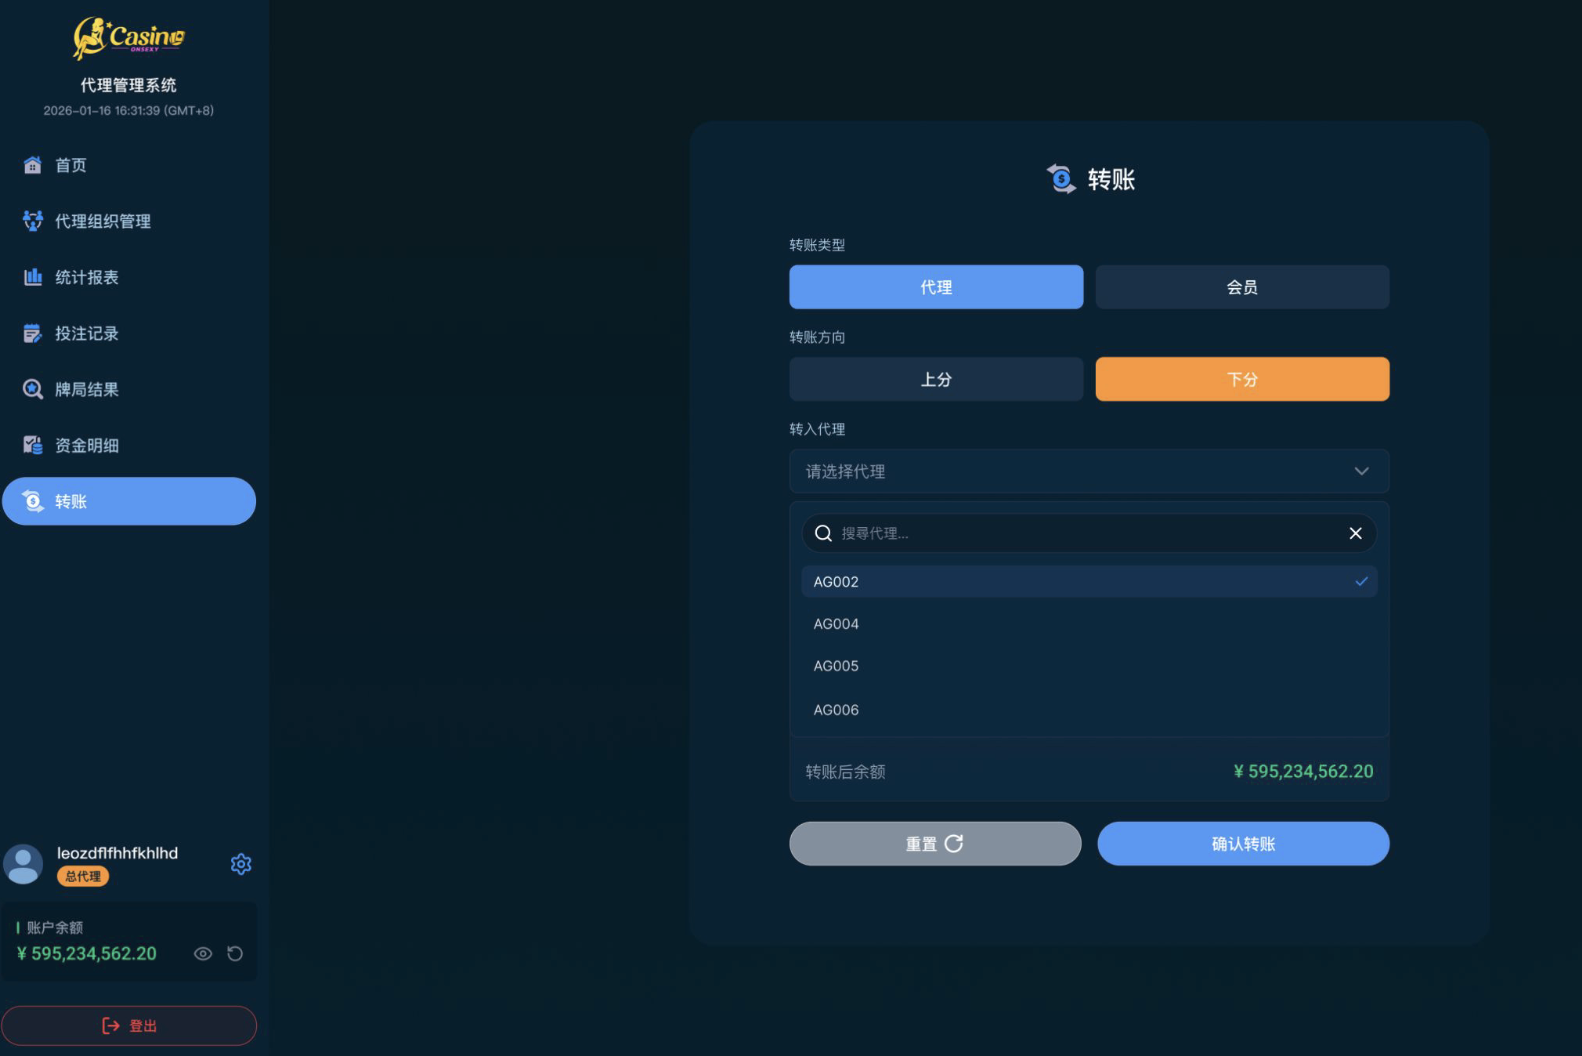
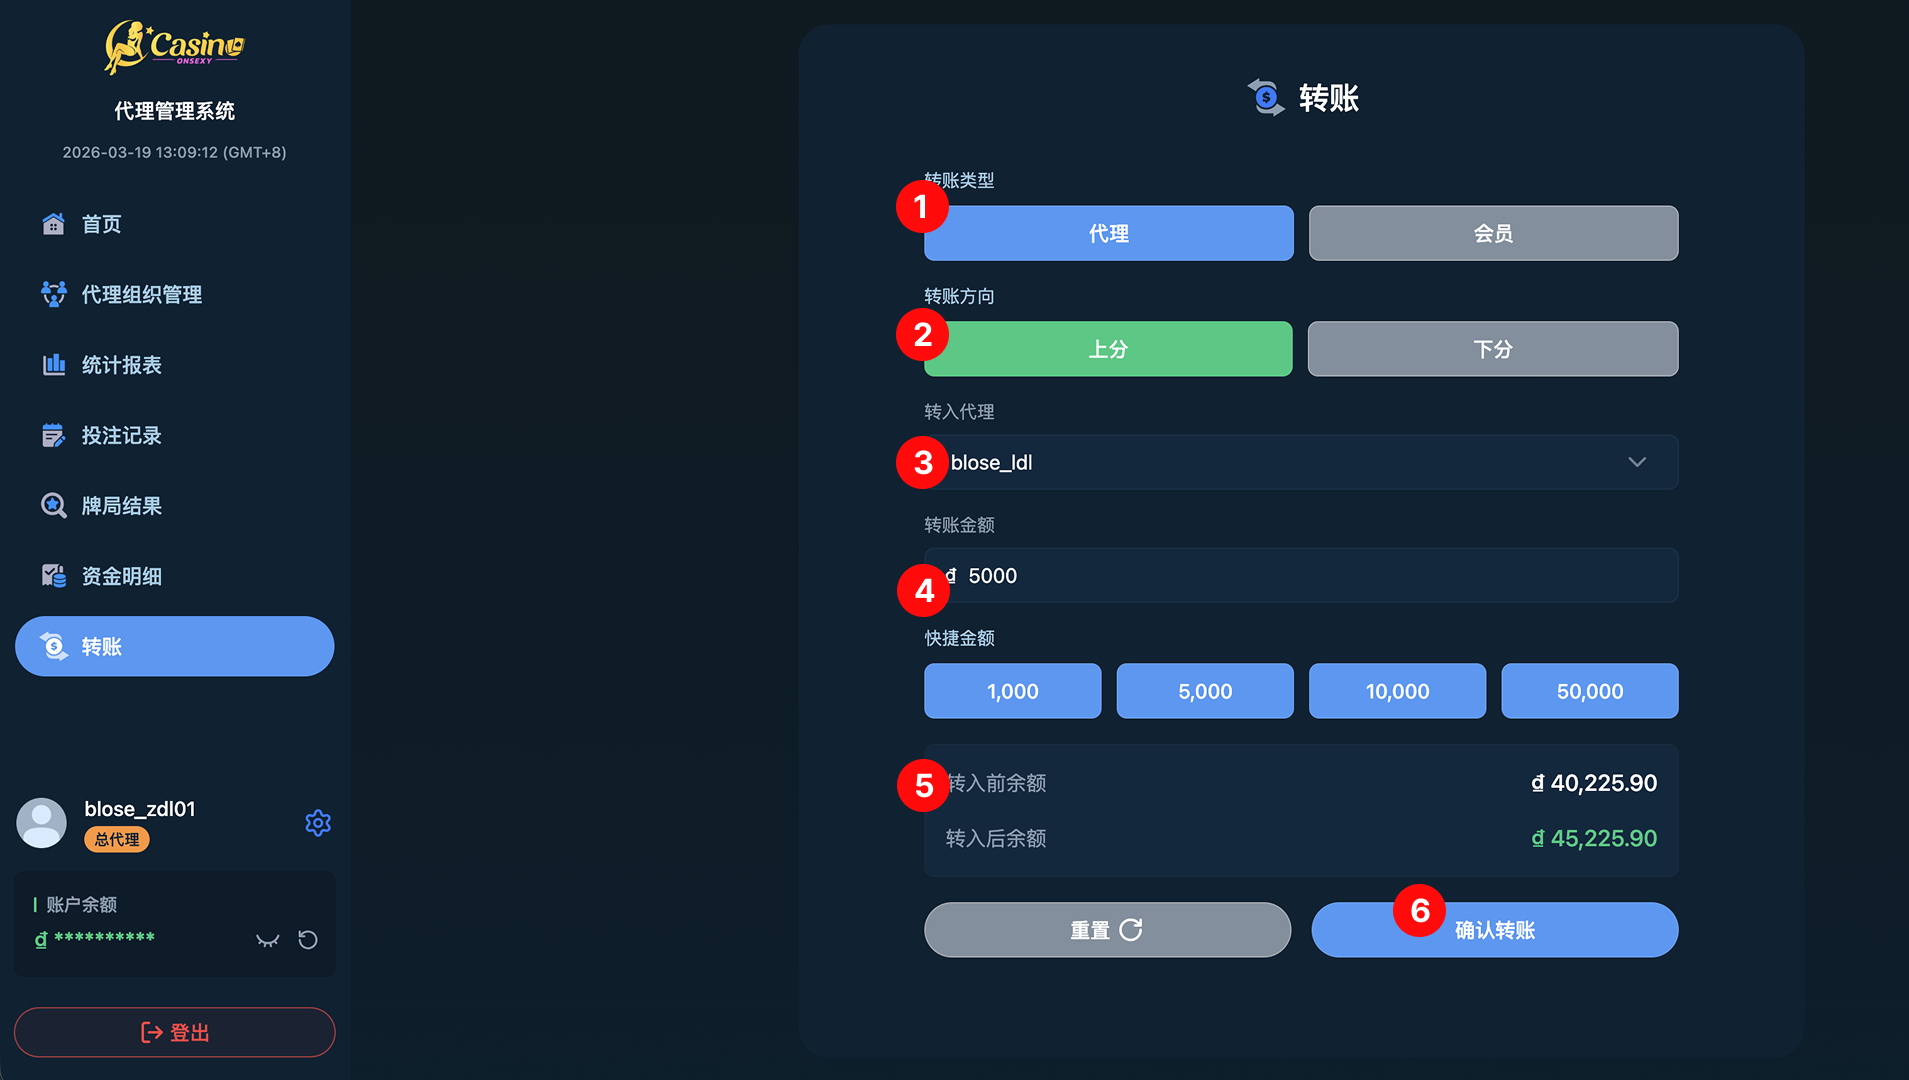
Update section 4 transfer operation steps and image

diff --git a/section4.html b/section4.html
@@ -88,41 +88,66 @@
             <p class="para">点击左侧导航栏的<strong>【转账】</strong>中心。在该页面中，您可以直接搜索并选择任何直属下级，进行即时的额度划拨操作。</p>
           </div>
 
-          <div class="notice info">
-            <div class="notice-icon">💡</div>
-            <div class="notice-content">
-              <strong>核心规则：</strong>
-              <ol class="numbered-list">
-                <li><strong>层级限制</strong>：您仅能对其直属的下一级（代理或会员）进行额度操作。</li>
-                <li><strong>自身充值</strong>：如需增加您自身的代理余额，请务必联系您的上级代理进行处理。</li>
-              </ol>
-            </div>
-          </div>
-
           <div class="card">
             <div class="card-title">
-              <div class="card-icon green">⬆</div>方法 2：管理列表直接操作
+              <div class="card-icon green">📝</div>转账操作流程步骤
             </div>
             <ol class="steps-list">
               <li class="step-item">
                 <div class="step-num">1</div>
                 <div class="step-content">
-                  <div class="step-title">定位目标账户</div>
-                  <div class="step-desc">进入「代理管理」或「会员管理」列表，利用搜索功能快速定位目标对象。</div>
+                  <div class="step-title">选择转账类型 (转账类型)</div>
+                  <div class="step-desc">您需要先决定转账的对象是<strong>“代理”还是“会员”</strong>。目前图中选中的是蓝色的“代理”。</div>
                 </div>
               </li>
               <li class="step-item">
                 <div class="step-num">2</div>
                 <div class="step-content">
-                  <div class="step-title">发起划转请求</div>
-                  <div class="step-desc">在目标账户的操作列中，点击「上分」或「下分」进入划转界面。</div>
+                  <div class="step-title">选择转账方向 (转账方向)</div>
+                  <div class="step-desc">
+                    <strong>上分（绿色按钮）</strong>：将点数/资金拨给下级。<br />
+                    <strong>下分（灰色按钮）</strong>：从下级回收点数/资金。<br />
+                    目前图中选定的是“上分”。
+                  </div>
                 </div>
               </li>
               <li class="step-item">
                 <div class="step-num">3</div>
                 <div class="step-content">
-                  <div class="step-title">核对金额并确认</div>
-                  <div class="step-desc">输入划转金额，系统将自动核算双方余额变动，确认无误後点击执行。</div>
+                  <div class="step-title">选择/输入接收对象 (转入代理)</div>
+                  <div class="step-desc">在下拉菜单或输入框中选择要接收资金的账号。图中显示的接收对象为 blose_ldl。</div>
+                </div>
+              </li>
+              <li class="step-item">
+                <div class="step-num">4</div>
+                <div class="step-content">
+                  <div class="step-title">输入转账金额 (转账金额)</div>
+                  <div class="step-desc">
+                    <strong>手动输入</strong>：在输入框中直接输入想要转账的数字。<br />
+                    <strong>快捷金额</strong>：利用下方的快捷按钮（如 1,000、5,000 等）快速带入金额。图中已带入 5,000。
+                  </div>
+                </div>
+              </li>
+              <li class="step-item">
+                <div class="step-num">5</div>
+                <div class="step-content">
+                  <div class="step-title">预览余额变动</div>
+                  <div class="step-desc">
+                    系统会自动计算并显示：<br />
+                    <strong>转入前余额</strong>：该对象目前的资金。<br />
+                    <strong>转入后余额</strong>：加上（或扣除）本次转账金额后的预计资金。<br />
+                    <em>这一步很重要，操作前请务必确认金额是否正确。</em>
+                  </div>
+                </div>
+              </li>
+              <li class="step-item">
+                <div class="step-num">6</div>
+                <div class="step-content">
+                  <div class="step-title">提交操作</div>
+                  <div class="step-desc">
+                    <strong>重置</strong>（左下方按钮）：清空当前输入的所有信息。<br />
+                    <strong>确认转账</strong>（右下方蓝色按钮）：点击后正式执行转账操作。
+                  </div>
                 </div>
               </li>
             </ol>
@@ -156,43 +181,70 @@
               downline to perform instant credit adjustments.</p>
           </div>
 
-          <div class="notice info">
-            <div class="notice-icon">💡</div>
-            <div class="notice-content">
-              <strong>Core Rules:</strong>
-              <ol class="numbered-list">
-                <li><strong>Hierarchy Limit</strong>: You can only perform operations for your direct subordinates.</li>
-                <li><strong>Self-Top-up</strong>: To increase your own balance, please contact your superior agent.</li>
-              </ol>
-            </div>
-          </div>
-
           <div class="card">
             <div class="card-title">
-              <div class="card-icon green">⬆</div>Method 2: Directly via Management List
+              <div class="card-icon green">📝</div>Transfer Operation Process Steps
             </div>
             <ol class="steps-list">
               <li class="step-item">
                 <div class="step-num">1</div>
                 <div class="step-content">
-                  <div class="step-title">Locate Target Account</div>
-                  <div class="step-desc">Find the account in "Agent Management" or "Member Management" using the search
-                    filter.</div>
+                  <div class="step-title">Select Transfer Type</div>
+                  <div class="step-desc">You need to first decide whether the transfer target is an <strong>"Agent" or
+                      "Member"</strong>. The currently selected option in the image is the blue "Agent".</div>
                 </div>
               </li>
               <li class="step-item">
                 <div class="step-num">2</div>
                 <div class="step-content">
-                  <div class="step-title">Initiate Transfer</div>
-                  <div class="step-desc">In the actions column, click "Deposit" or "Withdrawal" to open the transfer
-                    window.</div>
+                  <div class="step-title">Select Transfer Direction</div>
+                  <div class="step-desc">
+                    <strong>Deposit (Green button)</strong>: Transfer credits/funds to downline.<br />
+                    <strong>Withdrawal (Gray button)</strong>: Recover credits/funds from downline.<br />
+                    The currently selected option in the image is "Deposit".
+                  </div>
                 </div>
               </li>
               <li class="step-item">
                 <div class="step-num">3</div>
                 <div class="step-content">
-                  <div class="step-title">Verify & Confirm</div>
-                  <div class="step-desc">Enter the amount, check the updated balances, and click "Confirm" to execute.
+                  <div class="step-title">Select/Enter Recipient</div>
+                  <div class="step-desc">Select the account to receive funds from the dropdown menu or input field. The
+                    recipient shown in the image is blose_ldl.</div>
+                </div>
+              </li>
+              <li class="step-item">
+                <div class="step-num">4</div>
+                <div class="step-content">
+                  <div class="step-title">Enter Transfer Amount</div>
+                  <div class="step-desc">
+                    <strong>Manual Entry</strong>: Directly enter the desired transfer amount in the input box.<br />
+                    <strong>Quick Amount</strong>: Use the quick buttons below (e.g., 1,000, 5,000) to quickly fill in
+                    the amount. 5,000 is entered in the image.
+                  </div>
+                </div>
+              </li>
+              <li class="step-item">
+                <div class="step-num">5</div>
+                <div class="step-content">
+                  <div class="step-title">Preview Balance Change</div>
+                  <div class="step-desc">
+                    The system will automatically calculate and display:<br />
+                    <strong>Balance Before Transfer</strong>: The target's current funds.<br />
+                    <strong>Balance After Transfer</strong>: The estimated funds after adding (or deducting) this
+                    transfer amount.<br />
+                    <em>This step is crucial; please ensure the amount is correct before operating.</em>
+                  </div>
+                </div>
+              </li>
+              <li class="step-item">
+                <div class="step-num">6</div>
+                <div class="step-content">
+                  <div class="step-title">Submit Operation</div>
+                  <div class="step-desc">
+                    <strong>Reset</strong> (Bottom left button): Clear all currently entered information.<br />
+                    <strong>Confirm Transfer</strong> (Bottom right blue button): Click to formally execute the transfer
+                    operation.
                   </div>
                 </div>
               </li>
@@ -230,46 +282,71 @@
               có thể tìm kiếm và chọn bất kỳ cấp dưới trực tiếp nào để thực hiện điều chỉnh hạn mức tức thì.</p>
           </div>
 
-          <div class="notice info">
-            <div class="notice-icon">💡</div>
-            <div class="notice-content">
-              <strong>Quy tắc cốt lõi:</strong>
-              <ol class="numbered-list">
-                <li><strong>Giới hạn phân cấp</strong>: Bạn chỉ có thể thực hiện thao tác hạn mức cho cấp dưới trực tiếp
-                  của mình.</li>
-                <li><strong>Tự nạp tiền</strong>: Để tăng số dư đại lý của chính mình, vui lòng liên hệ với đại lý cấp
-                  trên để xử lý.</li>
-              </ol>
-            </div>
-          </div>
-
           <div class="card">
             <div class="card-title">
-              <div class="card-icon green">⬆</div>Phương pháp 2: Thao tác trực tiếp từ danh sách quản lý
+              <div class="card-icon green">📝</div>Các bước thao tác chuyển khoản
             </div>
             <ol class="steps-list">
               <li class="step-item">
                 <div class="step-num">1</div>
                 <div class="step-content">
-                  <div class="step-title">Xác định tài khoản mục tiêu</div>
-                  <div class="step-desc">Vào danh sách "Quản lý đại lý" hoặc "Quản lý thành viên", sử dụng tính năng tìm
-                    kiếm để xác định đối tượng.</div>
+                  <div class="step-title">Chọn loại chuyển khoản</div>
+                  <div class="step-desc">Trước tiên cần quyết định đối tượng chuyển khoản là <strong>"Đại lý" hay "Thành
+                      viên"</strong>. Tùy chọn đang được chọn trong hình là "Đại lý" màu xanh.</div>
                 </div>
               </li>
               <li class="step-item">
                 <div class="step-num">2</div>
                 <div class="step-content">
-                  <div class="step-title">Khởi tạo yêu cầu chuyển khoản</div>
-                  <div class="step-desc">Tại cột thao tác của tài khoản mục tiêu, nhấp vào "Nạp điểm" hoặc "Rút điểm" để
-                    vào giao diện chuyển khoản.</div>
+                  <div class="step-title">Chọn hướng chuyển khoản</div>
+                  <div class="step-desc">
+                    <strong>Nạp điểm (Nút màu xanh lá)</strong>: Chuyển điểm/vốn cho cấp dưới.<br />
+                    <strong>Rút điểm (Nút màu xám)</strong>: Thu hồi điểm/vốn từ cấp dưới.<br />
+                    Tùy chọn đang được chọn trong hình là "Nạp điểm".
+                  </div>
                 </div>
               </li>
               <li class="step-item">
                 <div class="step-num">3</div>
                 <div class="step-content">
-                  <div class="step-title">Kiểm tra số tiền và xác nhận</div>
-                  <div class="step-desc">Nhập số tiền chuyển, hệ thống sẽ tự động tính toán thay đổi số dư của cả hai
-                    bên, sau khi xác nhận không sai sót thì nhấp thực hiện.</div>
+                  <div class="step-title">Chọn/Nhập đối tượng nhận</div>
+                  <div class="step-desc">Chọn tài khoản nhận tiền trong menu thả xuống hoặc ô nhập. Đối tượng nhận hiển
+                    thị trong hình là blose_ldl.</div>
+                </div>
+              </li>
+              <li class="step-item">
+                <div class="step-num">4</div>
+                <div class="step-content">
+                  <div class="step-title">Nhập số tiền chuyển</div>
+                  <div class="step-desc">
+                    <strong>Nhập thủ công</strong>: Trực tiếp nhập số tiền muốn chuyển vào ô nhập.<br />
+                    <strong>Số tiền nhanh</strong>: Sử dụng các nút nhanh bên dưới (ví dụ 1.000, 5.000) để điền nhanh số
+                    tiền. Trong hình đã điền 5.000.
+                  </div>
+                </div>
+              </li>
+              <li class="step-item">
+                <div class="step-num">5</div>
+                <div class="step-content">
+                  <div class="step-title">Xem trước thay đổi số dư</div>
+                  <div class="step-desc">
+                    Hệ thống sẽ tự động tính toán và hiển thị:<br />
+                    <strong>Số dư trước khi chuyển</strong>: Số tiền hiện tại của đối tượng.<br />
+                    <strong>Số dư sau khi chuyển</strong>: Số tiền dự kiến sau khi cộng (hoặc trừ) số tiền chuyển khoản
+                    này.<br />
+                    <em>Bước này rất quan trọng, vui lòng đảm bảo số tiền là chính xác trước khi thao tác.</em>
+                  </div>
+                </div>
+              </li>
+              <li class="step-item">
+                <div class="step-num">6</div>
+                <div class="step-content">
+                  <div class="step-title">Gửi thao tác</div>
+                  <div class="step-desc">
+                    <strong>Làm mới</strong> (Nút dưới cùng bên trái): Xóa tất cả thông tin hiện đã nhập.<br />
+                    <strong>Xác nhận chuyển</strong> (Nút màu xanh dưới cùng bên phải): Nhấp để chính thức thực hiện
+                    thao tác chuyển khoản.
+                  </div>
                 </div>
               </li>
             </ol>
@@ -306,46 +383,72 @@
               at pumili ng anumang direktang downline para sa agarang pag-aadjust ng credit.</p>
           </div>
 
-          <div class="notice info">
-            <div class="notice-icon">💡</div>
-            <div class="notice-content">
-              <strong>Pangunahing Panuntunan:</strong>
-              <ol class="numbered-list">
-                <li><strong>Limitasyon sa Antas</strong>: Maaari ka lamang magsagawa ng mga operasyon para sa iyong mga
-                  direktang subordinate.</li>
-                <li><strong>Sariling Top-up</strong>: Upang madagdagan ang iyong sariling balanse, mangyaring
-                  makipag-ugnayan sa iyong superior agent.</li>
-              </ol>
-            </div>
-          </div>
-
           <div class="card">
             <div class="card-title">
-              <div class="card-icon green">⬆</div>Paraan 2: Direktang Operasyon sa Management List
+              <div class="card-icon green">📝</div>Mga Hakbang sa Proseso ng Transfer
             </div>
             <ol class="steps-list">
               <li class="step-item">
                 <div class="step-num">1</div>
                 <div class="step-content">
-                  <div class="step-title">Hanapin ang Target Account</div>
-                  <div class="step-desc">Hanapin ang account sa listahan ng "Agent Management" o "Member Management"
-                    gamit ang search filter.</div>
+                  <div class="step-title">Piliin ang Uri ng Transfer</div>
+                  <div class="step-desc">Kailangan mo munang magpasya kung ang target ng transfer ay <strong>"Agent" o
+                      "Miyembro"</strong>. Ang kasalukuyang piniling opsyon sa larawan ay ang asul na "Agent".</div>
                 </div>
               </li>
               <li class="step-item">
                 <div class="step-num">2</div>
                 <div class="step-content">
-                  <div class="step-title">Simulan ang Transfer</div>
-                  <div class="step-desc">Sa action column, i-click ang "Deposit" o "Withdrawal" para buksan ang transfer
-                    window.</div>
+                  <div class="step-title">Piliin ang Direksyon ng Transfer</div>
+                  <div class="step-desc">
+                    <strong>Deposit (Berdeng button)</strong>: Ilipat ang mga credit/pondo sa downline.<br />
+                    <strong>Withdrawal (Abo na button)</strong>: Bawiin ang mga credit/pondo mula sa downline.<br />
+                    Ang kasalukuyang piniling opsyon sa larawan ay "Deposit".
+                  </div>
                 </div>
               </li>
               <li class="step-item">
                 <div class="step-num">3</div>
                 <div class="step-content">
-                  <div class="step-title">I-verify at Kumpirmahin</div>
-                  <div class="step-desc">Ilagay ang halaga, suriin ang mga updated na balanse, at i-click ang "Confirm"
-                    para isagawa.</div>
+                  <div class="step-title">Piliin/Ipasok ang Tatanggap</div>
+                  <div class="step-desc">Piliin ang account na tatanggap ng pondo mula sa dropdown menu o input field.
+                    Ang tatanggap na makikita sa larawan ay blose_ldl.</div>
+                </div>
+              </li>
+              <li class="step-item">
+                <div class="step-num">4</div>
+                <div class="step-content">
+                  <div class="step-title">Ipasok ang Halaga ng Transfer</div>
+                  <div class="step-desc">
+                    <strong>Manu-manong Pag-enter</strong>: Direktang ipasok ang nais na halaga sa input box.<br />
+                    <strong>Mabilis na Halaga</strong>: Gamitin ang mga quick button sa ibaba (hal., 1,000, 5,000) upang
+                    mabilis na mailagay ang halaga. 5,000 ang nailagay sa larawan.
+                  </div>
+                </div>
+              </li>
+              <li class="step-item">
+                <div class="step-num">5</div>
+                <div class="step-content">
+                  <div class="step-title">I-preview ang Pagbabago sa Balanse</div>
+                  <div class="step-desc">
+                    Awtomatikong kakalkulahin at ipapakita ng system ang:<br />
+                    <strong>Balanse Bago ang Transfer</strong>: Ang kasalukuyang pondo ng target.<br />
+                    <strong>Balanse Pagkatapos ng Transfer</strong>: Ang tinatayang pondo pagkatapos idagdag (o bawasan)
+                    ang halagang ito ng transfer.<br />
+                    <em>Mahalaga ang hakbang na ito; mangyaring siguraduhin na tama ang halaga bago mag-operate.</em>
+                  </div>
+                </div>
+              </li>
+              <li class="step-item">
+                <div class="step-num">6</div>
+                <div class="step-content">
+                  <div class="step-title">I-submit ang Operasyon</div>
+                  <div class="step-desc">
+                    <strong>I-reset</strong> (Button sa kaliwang ibaba): Alisin ang lahat ng kasalukuyang nai-enter na
+                    impormasyon.<br />
+                    <strong>Kumpirmahin ang Transfer</strong> (Asul na button sa kanang ibaba): I-click upang pormal na
+                    isagawa ang operasyon ng transfer.
+                  </div>
                 </div>
               </li>
             </ol>
